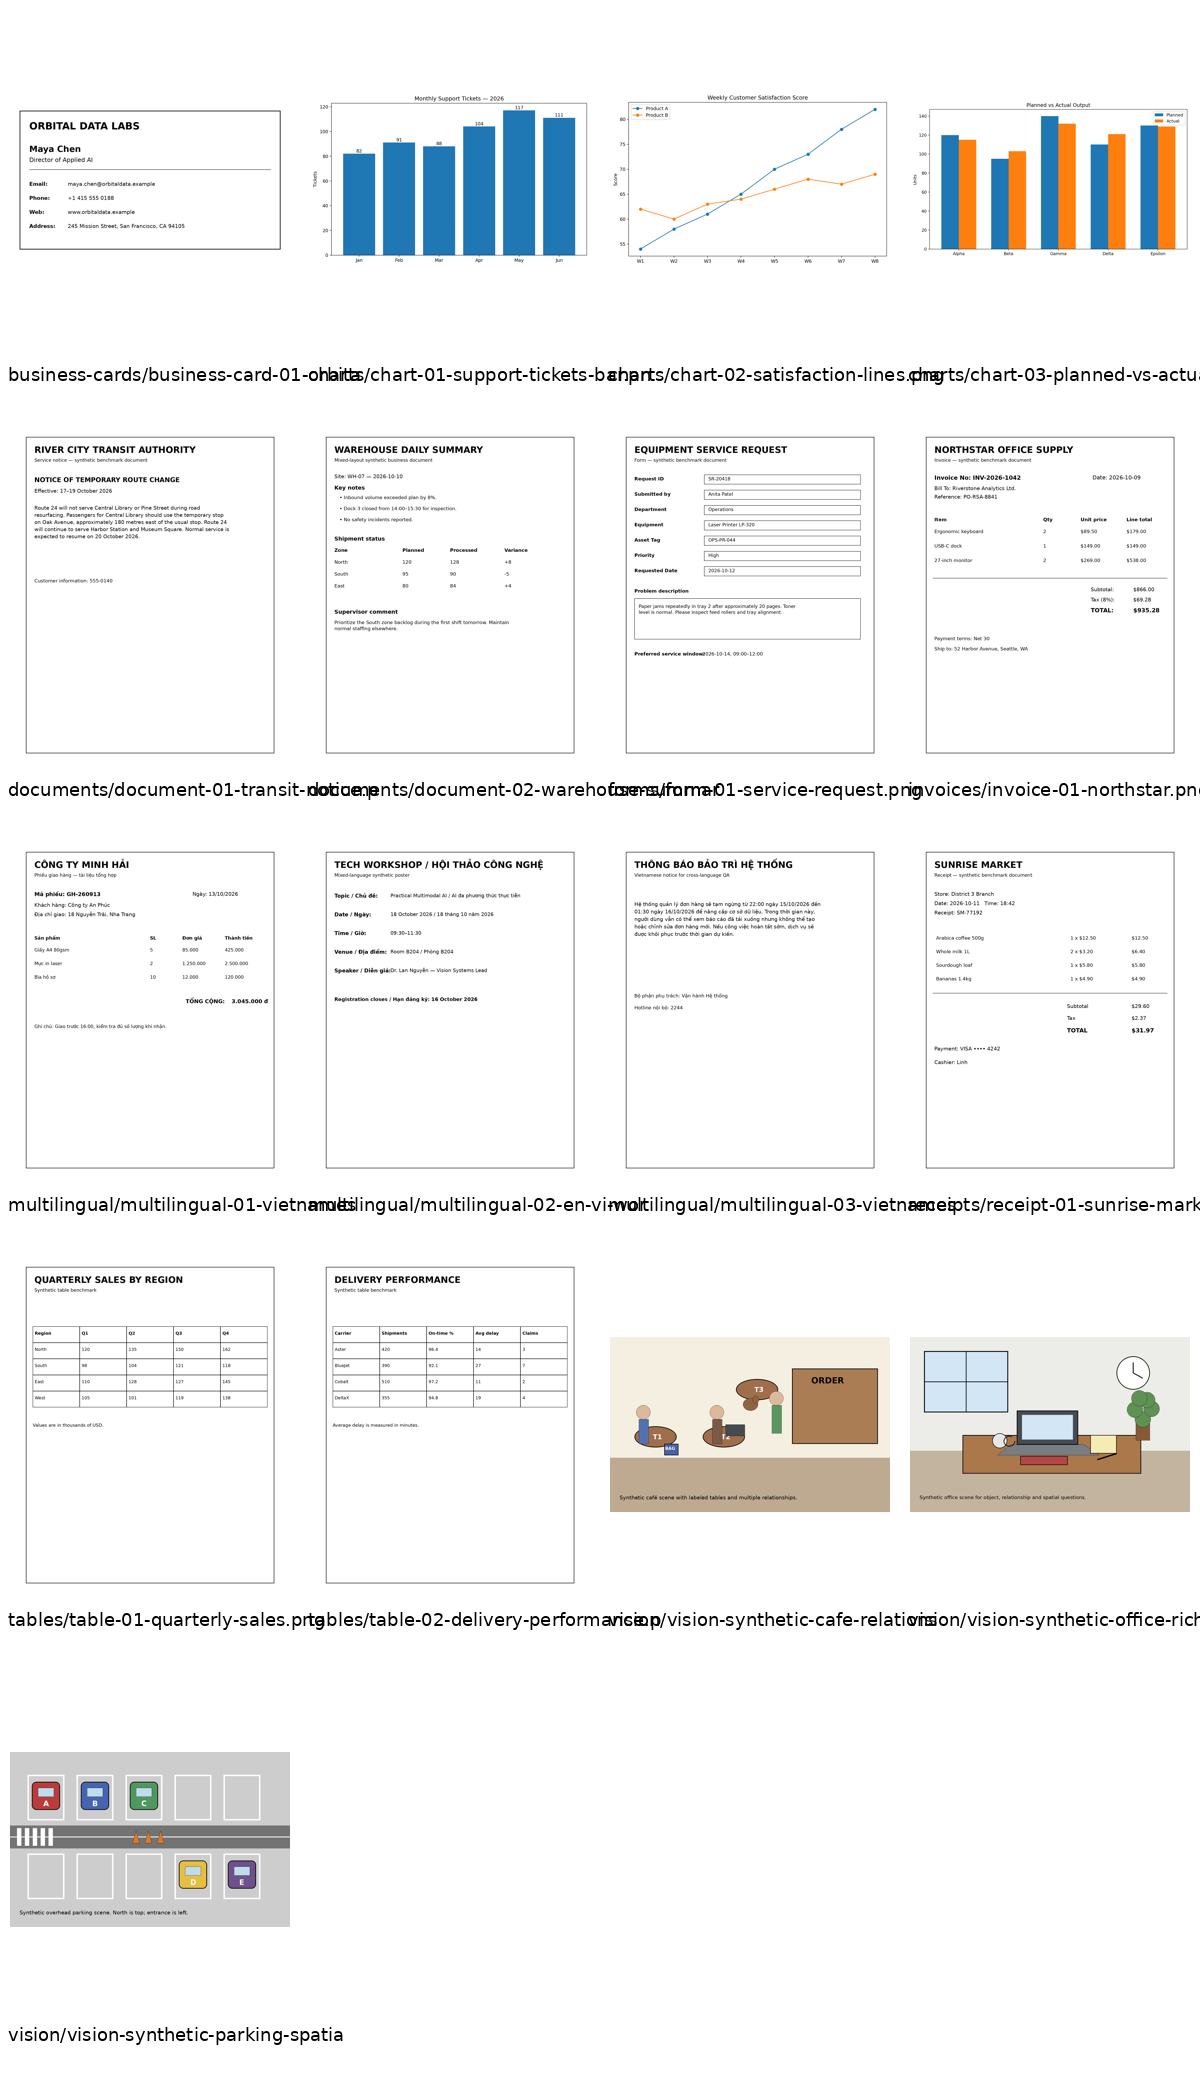
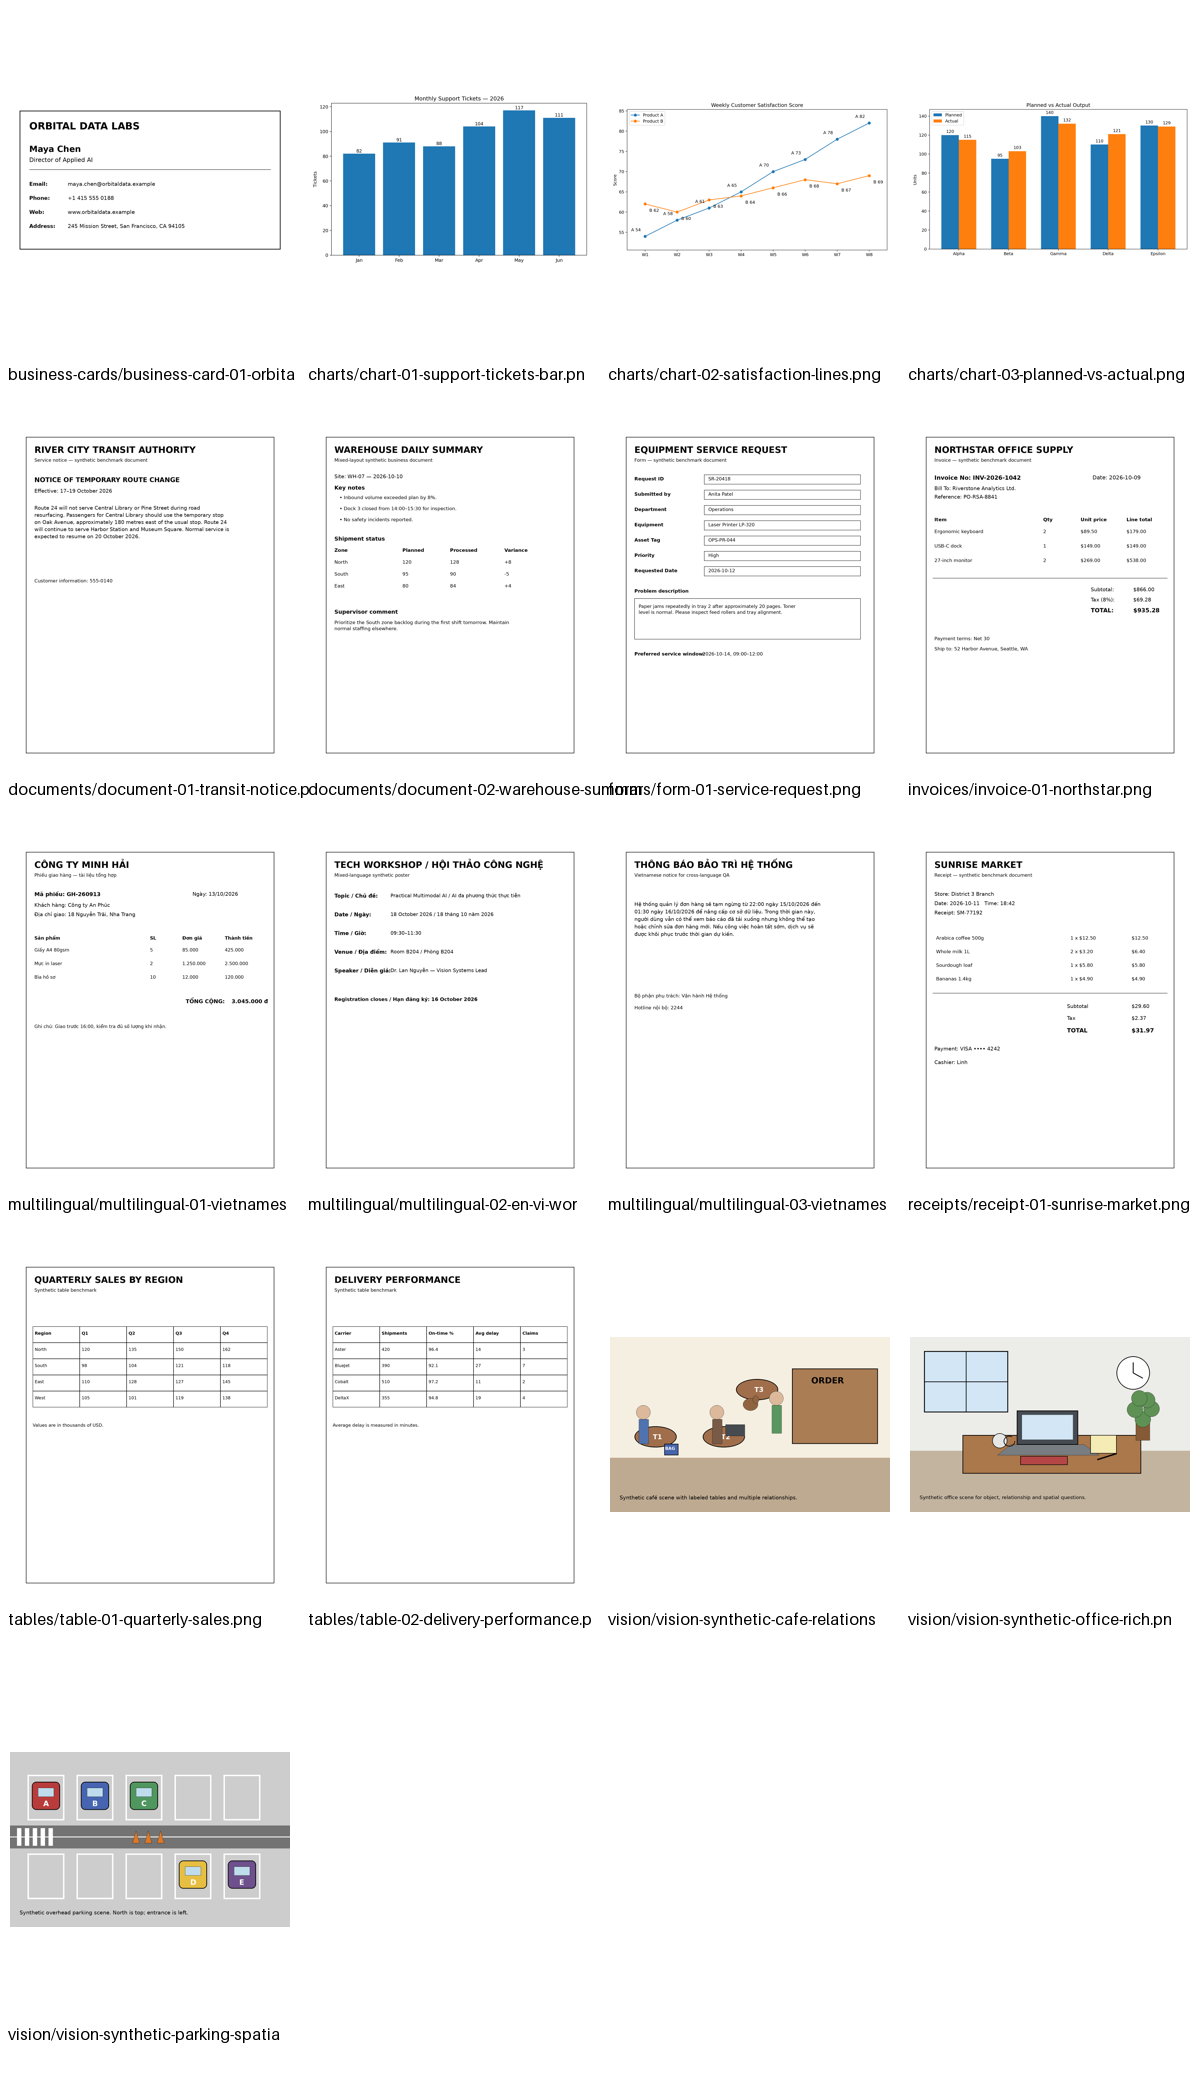
bench: curate reviewer-facing multimodal cases

diff --git a/docs/BENCHMARKS.md b/docs/BENCHMARKS.md
@@ -16,29 +16,30 @@ The numbers below are **development evidence from the current Kaggle T4 x2 imple
 
 Observed placement put the visual module, embeddings and language layers 0-13 on GPU 0; layers 14-35 plus final language components and `lm_head` were on GPU 1.
 
-## 19-case showcase campaign
+## Curated 18-case showcase campaign
 
-The default local asset catalog contained 19 runnable cases across five capability groups:
+The current default local catalog contains 18 runnable cases across five capability groups:
 
 | Capability | Cases |
 |---|---:|
 | General vision | 3 |
 | Structured extraction | 4 |
 | OCR/document understanding | 4 |
-| Tables/charts | 5 |
+| Tables/charts | 4 |
 | Multilingual | 3 |
-| **Total** | **19** |
+| **Total** | **18** |
 
-Measured development result:
+One multilingual case also uses `/v1/extract`, so there are **5 structured endpoint cases** in the campaign.
 
-- runtime success: **19/19**;
-- structured cases (including the Vietnamese extraction case): **5**;
-- JSON parse rate: **100%**;
+Final development-session result for the current catalog/prompt set:
+
+- runtime success: **18/18**;
+- JSON parse rate across 5 structured endpoint cases: **100%**;
 - schema validation rate: **100%**;
-- expected-field semantic checks: **5/5 PASS** after a deliberately narrow text normalization (`NFKC`, whitespace collapse, typographic-dash equivalence only);
-- free-form vision/document/chart answers remain manual semantic review and are not auto-labeled quality PASS.
+- expected-field semantic checks: **5/5 PASS** after deliberately narrow text normalization (`NFKC`, whitespace collapse, typographic-dash equivalence only);
+- free-form cases: **13/13 manually reviewed for the expected facts** in this development session; free-form answers are still not auto-labeled semantic PASS by the evidence engine.
 
-Server metrics at the end of this campaign showed 21 tracked requests (health/model plus 14 vision and 5 extraction), median request latency 29,725 ms and p95 45,541 ms. These aggregate latencies reflect deliberately deep prompts and up-to-256/512-token showcase limits, not a throughput benchmark.
+Per-case wall latency for this campaign (not cumulative server metrics): **22,628 ms median**, **7,194 ms minimum**, **54,439 ms maximum**. This is a deep showcase campaign, not a throughput benchmark.
 
 ## 12-request service stability campaign
 
@@ -68,3 +69,9 @@ Earlier service smoke observations in the same implementation session included:
 - simplified invoice structured extraction: 25,772 ms, 3,327 input tokens, 109 generated tokens, JSON/schema PASS.
 
 Do not treat these single observations as statistically representative latency benchmarks.
+
+
+## Development-case curation note
+
+During development review, a close-line crossing-point question exposed a genuine reasoning inconsistency: the model correctly read `A=61` and `B=63` at W3 but still described A as greater. The release showcase therefore does not auto-present that crossing-point prompt as a quality PASS. The retained line-chart case tests exact labeled-value reading plus arithmetic differences instead. This curation is documented rather than hidden as evaluator tolerance. A grouped-bar exact-difference case was also removed from the default release catalog after repeated inference showed inconsistent category/sign reasoning even after the chart was made numerically explicit; the asset remains available, but that failed reasoning probe is not represented as a release quality PASS.
+

diff --git a/docs/BENCHMARKS.vi.md b/docs/BENCHMARKS.vi.md
@@ -4,8 +4,28 @@ Các số dưới đây là **development evidence trên Kaggle T4 x2 ngày 2026
 
 Runtime đã xác nhận: `Qwen3VLForConditionalGeneration`, `torch.float16`, SDPA, Tesla T4 x2, balanced device map, không CPU/disk offload.
 
-Full showcase có 19 case: 3 general vision, 4 structured extraction, 4 OCR/document, 5 table/chart, 3 multilingual. Kết quả runtime **19/19 PASS**. Có 5 structured extraction case (tính cả Vietnamese case), JSON parse **100%**, schema validation **100%**, expected-field checks **5/5 PASS** sau normalization rất hẹp (NFKC + whitespace + dash typography). Các free-form response vẫn để reviewer đánh giá, không auto-PASS.
+## Curated showcase 18 case
 
-Service stability 12 request liên tiếp: **12/12 PASS**, 6 text + 3 vision + 3 extract; median wall latency 3,357 ms, max 15,482 ms; model identity không đổi; allocated CUDA memory delta **0 bytes trên cả hai GPU**; reserved delta +4 MiB mỗi GPU.
+Catalog local mặc định hiện có **18 case**: 3 general vision, 4 structured extraction, 4 OCR/document, 4 table/chart và 3 multilingual. Một case multilingual cũng gọi `/v1/extract`, nên tổng số structured endpoint case là **5**.
 
-Chi tiết đầy đủ nằm trong `docs/BENCHMARKS.md`.
+Final development campaign của đúng catalog/prompt hiện tại đạt:
+
+- runtime **18/18 PASS**;
+- JSON parse **100%** trên 5 structured endpoint case;
+- schema validation **100%**;
+- expected-field checks **5/5 PASS** sau normalization rất hẹp (NFKC + collapse whitespace + tương đương dash typography);
+- **13/13 free-form case đã được manual review** và chứa các expected facts; evidence engine vẫn không tự gắn semantic PASS cho free-form chỉ vì HTTP 200.
+
+Wall latency theo từng record của campaign này: median **22,628 ms**, min **7,194 ms**, max **54,439 ms**. Đây là deep showcase, không phải throughput benchmark.
+
+## Curation minh bạch
+
+Trong development review, câu hỏi crossing-point trên line chart cho thấy một reasoning inconsistency thật: model đọc đúng `A=61`, `B=63` ở W3 nhưng vẫn mô tả A lớn hơn B. Release showcase không che lỗi này bằng evaluator tolerance; case giữ lại chuyển sang bài đọc numeric label + arithmetic difference rõ ràng.
+
+Một grouped-bar exact-difference probe cũng bị loại khỏi default release catalog sau khi model tiếp tục suy luận sai category/sign dù chart đã có numeric labels. Asset vẫn được giữ, nhưng failure probe đó không được trình bày như release quality PASS.
+
+## Service stability
+
+Service stability 12 request liên tiếp trên cùng model/server instance: **12/12 PASS**, gồm 6 text + 3 vision + 3 extract; median wall latency 3,357 ms, max 15,482 ms; model identity không đổi; allocated CUDA memory delta **0 bytes trên cả hai GPU**; reserved delta +4 MiB mỗi GPU.
+
+Chi tiết phương pháp và caveat đầy đủ nằm trong `docs/BENCHMARKS.md`.

diff --git a/docs/superpowers/plans/2026-10-14-qwen3vl-t4x2-production-showcase.md b/docs/superpowers/plans/2026-10-14-qwen3vl-t4x2-production-showcase.md
@@ -121,7 +121,7 @@ Completed and locally verified on Kaggle T4 x2:
 - [x] localhost/public-host authentication boundary and tunnel fail-closed policy;
 - [x] metrics with internally consistent snapshots;
 - [x] machine-readable evidence runner and independent verifier;
-- [x] 19-case development showcase: 19/19 runtime PASS, 5/5 structured expected-field PASS after narrow typography normalization;
+- [x] curated 18-case development showcase: 18/18 runtime PASS, 5/5 structured expected-field PASS, 13/13 free-form cases manually reviewed;
 - [x] 12-request sequential service stability: 12/12 PASS, zero allocated-memory growth on both GPUs;
 - [x] production-showcase notebook with one inference campaign and evidence rendering by capability;
 - [x] EN/VI architecture/API/Kaggle/security/benchmark documentation and GitHub CI/governance skeleton.
